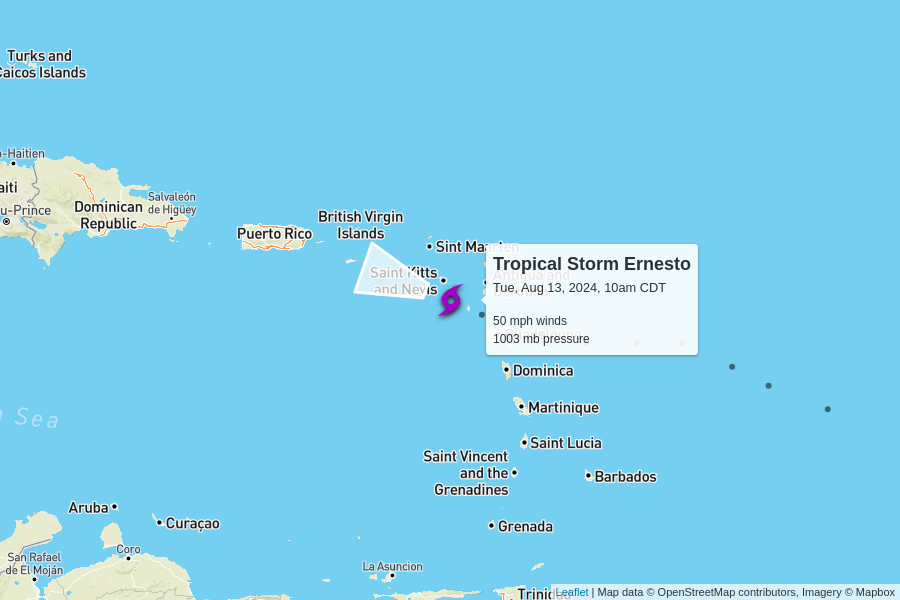
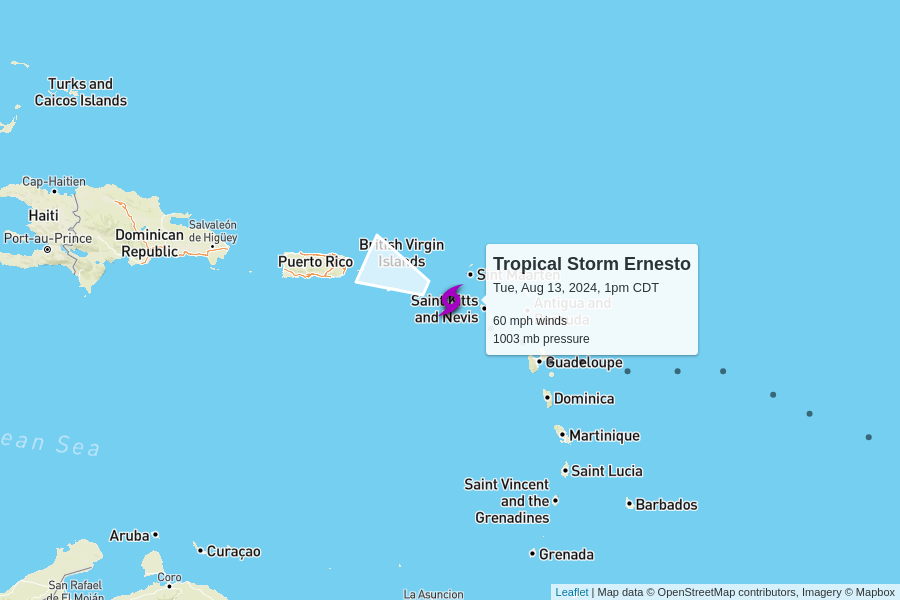
automatic update

diff --git a/docs/index.html b/docs/index.html
@@ -102,7 +102,7 @@
         <td colspan="6" class="storm category-0" >
           <h2>
             Tropical Storm Ernesto
-            <p class="updated">last updated <span data-time>2024-08-13T15:00:00.000Z</span></p>
+            <p class="updated">last updated <span data-time>2024-08-13T18:00:00.000Z</span></p>
           </h2>
         </td>
       </tr>
@@ -117,12 +117,12 @@
       </tr>
       <tr>
         <td class="spacer"></td>
-        <td>50 mph<br>+5 mph since last update</td>
-        <td>1003 mb<br>-2 mb since last update</td>
+        <td>60 mph<br>+10 mph since last update</td>
+        <td>1003 mb<br>0 mb since last update</td>
         <td>
           18 mph to the west-northwest
           <br/>
-          <span style="display: inline-block; font-size: 1.5em; transform: rotate(290deg);">↑</span>
+          <span style="display: inline-block; font-size: 1.5em; transform: rotate(295deg);">↑</span>
         </td>
         <td><a href="https://raw.githubusercontent.com/mgwalker/atlantic-hurricanes/main/data/csv/AL052024.csv">AL052024.csv</a></td>
         <td><a href="https://www.nhc.noaa.gov/archive/2024/ERNESTO.shtml?">NHC advisories</a></td>
